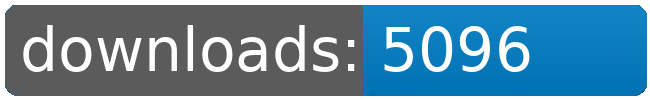
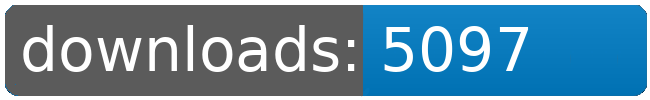
dl log written

Changed region(s): [[0.7692, 0.24, 0.8308, 0.72]]

diff --git a/README.md b/README.md
@@ -21,8 +21,8 @@
 		<td>5025</td>
 		<td>5051</td>
 		<td>5078</td>
-		<td>5096</td>
-		<td>+ 18</td>
+		<td>5097</td>
+		<td>+ 19</td>
 	</tr>
 	<tr>
 		<td>Factory.Outlets</td>
@@ -109,8 +109,8 @@
 		<td></td>
 		<td></td>
 		<td></td>
-		<td>41175</td>
-		<td>120</td>
+		<td>41176</td>
+		<td>121</td>
 	</tr>
 </table>
 </sub></sup>
@@ -157,8 +157,8 @@
 		<td>5025</td>
 		<td>5051</td>
 		<td>5078</td>
-		<td>5096</td>
-		<td>+ 18</td>
+		<td>5097</td>
+		<td>+ 19</td>
 	</tr>
 	<tr>
 		<td>Korunak.Defense.Drones</td>
@@ -223,8 +223,8 @@
 		<td></td>
 		<td></td>
 		<td></td>
-		<td>41175</td>
-		<td>120</td>
+		<td>41176</td>
+		<td>121</td>
 	</tr>
 </table>
 </sub></sup>
